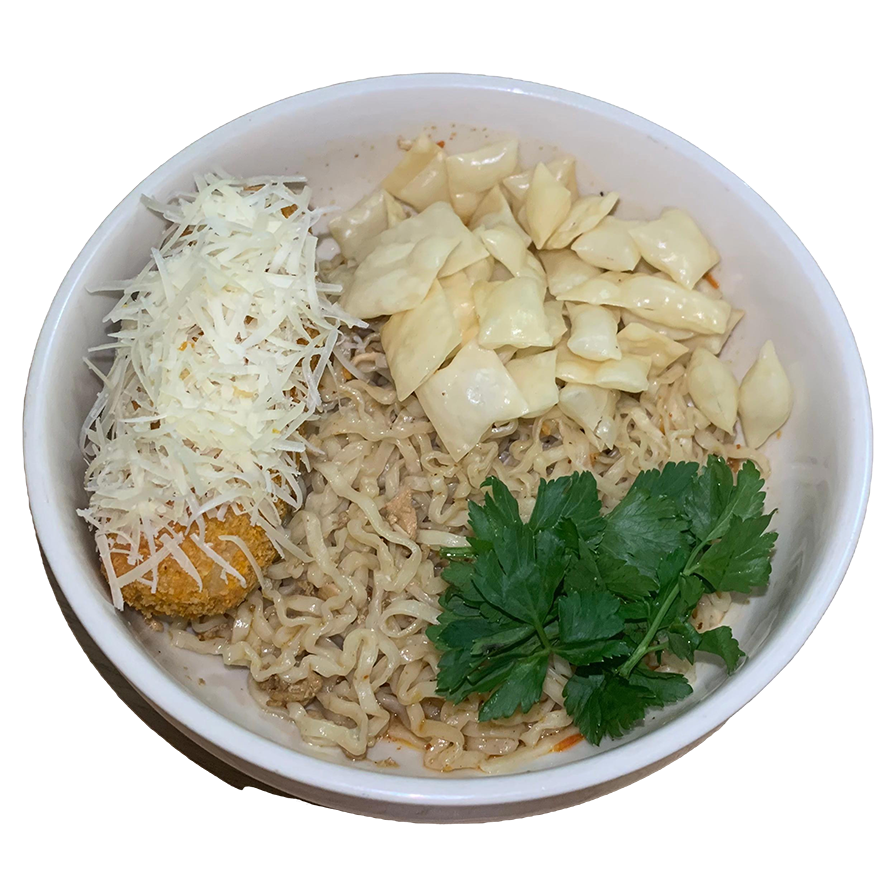
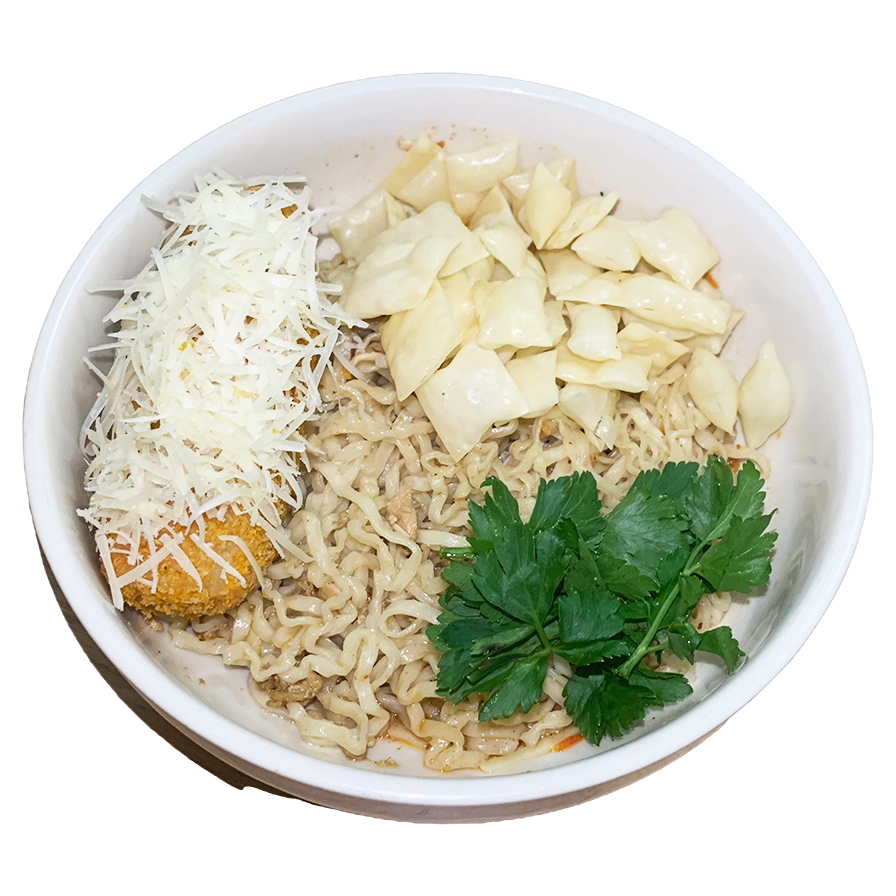
baruin

diff --git a/styles.css b/styles.css
@@ -1547,7 +1547,7 @@ textarea::-webkit-scrollbar-thumb {
 
 .mie-odos h1 {
   font-family: heviatas;
-  font-size: 0.9em;
+  font-size: 1.1em;
   margin: 0;
 
 }
@@ -1561,12 +1561,12 @@ textarea::-webkit-scrollbar-thumb {
   height: auto;
 }
 .mie-odos:nth-last-child(2) img {
-  max-width: 60%; /* Mengubah lebar gambar pada elemen kedua terakhir */
+  max-width: 55%; /* Mengubah lebar gambar pada elemen kedua terakhir */
   height: auto;
 }
 
 .mie-odos:last-child img {
-  max-width: 60%; /* Mengubah lebar gambar pada elemen terakhir */
+  max-width: 55%; /* Mengubah lebar gambar pada elemen terakhir */
   height: auto;
 }
 

diff --git a/menu.html b/menu.html
@@ -184,7 +184,7 @@
             <p>Rp.18.000</p>
           </div>
           <div class="nasi">
-            <img src="mie odos pict/mie oddos png fix/baru_lagi2.png" alt="">
+            <img src="mie odos pict/mie oddos png fix/baru_lagi20.png" alt="">
             <h1>Nasi chicken katsu</h1>
             <p>Rp.17.000</p>
           </div>
